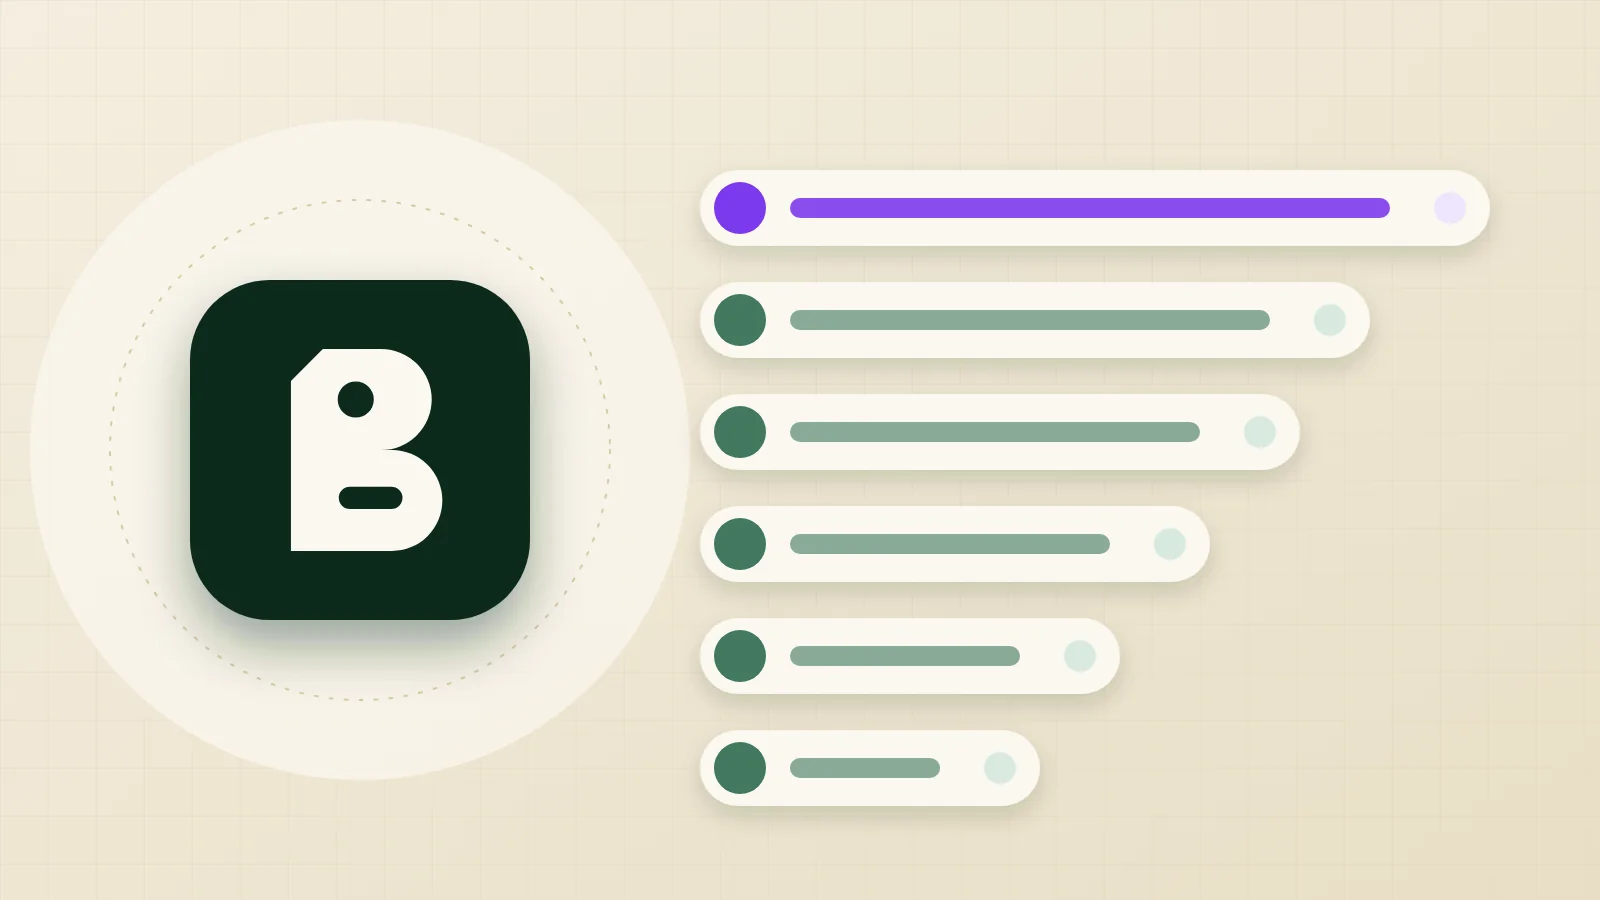
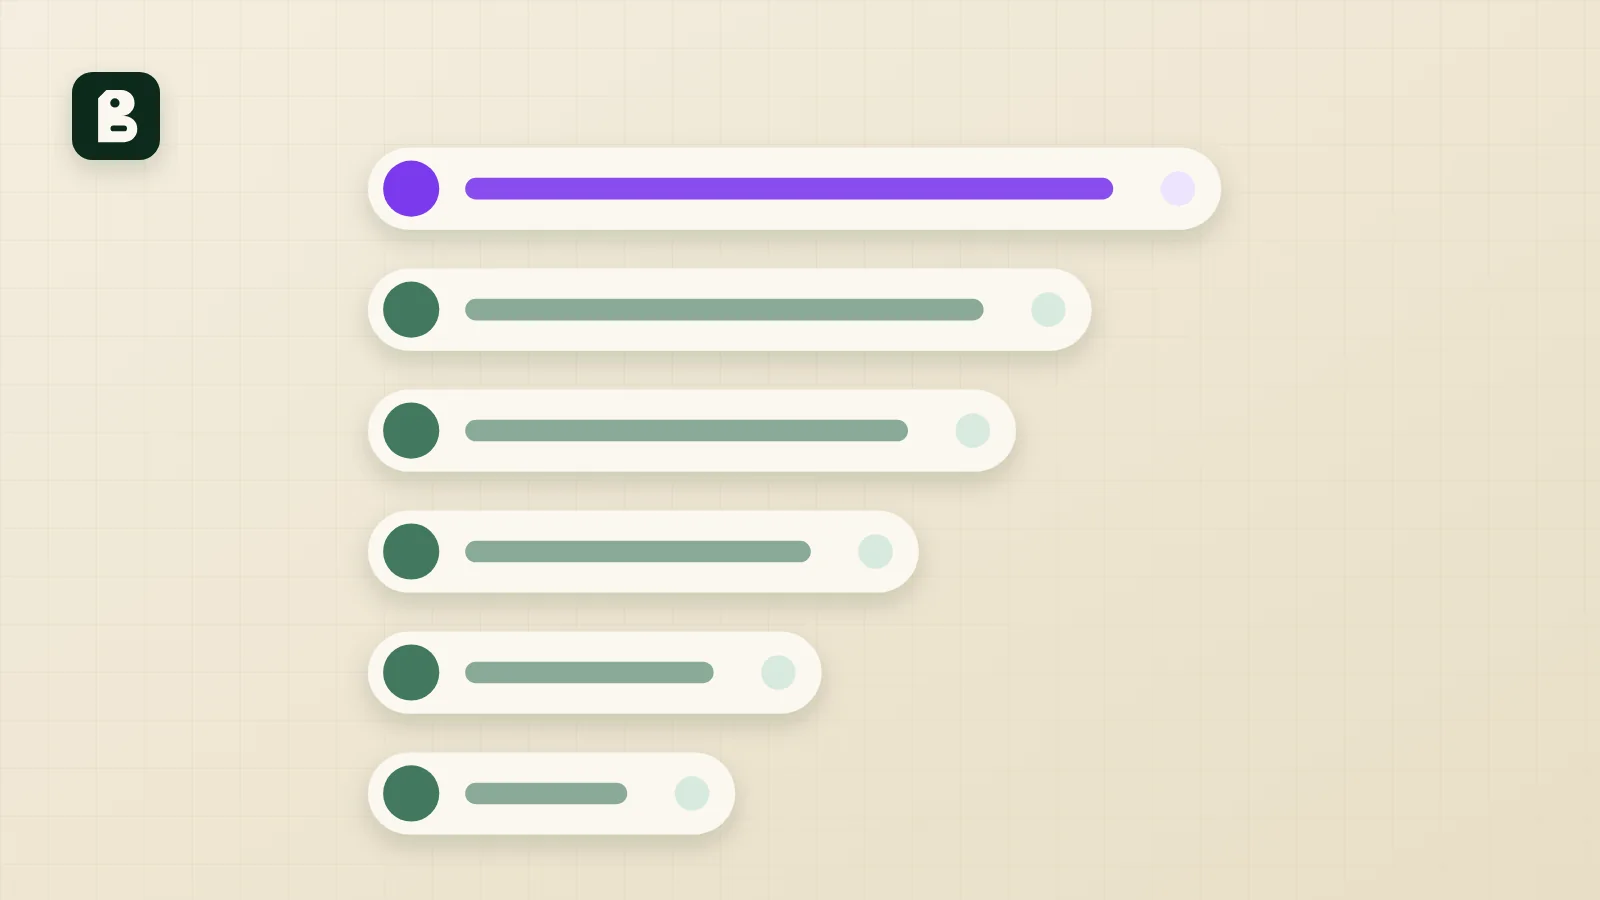
Benchmark featured images: small top-left symbol with margin, centred motif
Claude-Session: https://claude.ai/code/session_01MWx6XdsMUXGJsZSr37CFyH

diff --git a/scripts/benchmarks/build.py b/scripts/benchmarks/build.py
@@ -1,5 +1,5 @@
 """Builds one 1600x900 WebP featured image per published benchmark, each with the official BeigeLeads symbol
-(path copied from public/brand/svg/beigeleads-symbol-light.svg) beside a text-free illustration of the topic.
+(path copied from public/brand/svg/beigeleads-symbol-light.svg) in the top-left corner, with a text-free illustration of the topic.
 No numbers, no data: the shapes are decorative. Palette tokens only.
 Run: python3 scripts/benchmarks/build.py   (needs playwright + chromium and Pillow)   Output: public/benchmark-images/*.webp"""
 import io, math, pathlib, random
@@ -16,7 +16,7 @@ SYMBOL_PATH = "M25 13H36A9.5 9.5 0 0 1 36 32H38A9.5 9.5 0 0 1 38 51H19V19ZM27.8 
 
 def symbol(x, y, size):
     s = size / 64
-    return (f'<g filter="url(#big)"><g transform="translate({x} {y}) scale({s})"><rect width="64" height="64" rx="15" fill="{F9}"/>'
+    return (f'<g filter="url(#sh)"><g transform="translate({x} {y}) scale({s})"><rect width="64" height="64" rx="15" fill="{F9}"/>'
             f'<path fill-rule="evenodd" d="{SYMBOL_PATH}" fill="{S50}"/></g></g>')
 
 def frame(body):
@@ -26,8 +26,8 @@ def frame(body):
 <filter id="sh" x="-20%" y="-20%" width="140%" height="160%"><feDropShadow dx="0" dy="10" stdDeviation="12" flood-color="{F9}" flood-opacity=".16"/></filter>
 <filter id="big" filterUnits="userSpaceOnUse" x="0" y="0" width="1600" height="900"><feDropShadow dx="0" dy="26" stdDeviation="26" flood-color="{F9}" flood-opacity=".38"/></filter></defs>
 <rect width="{W}" height="{H}" fill="url(#bg)"/><rect width="{W}" height="{H}" fill="url(#grid)"/>
-<circle cx="360" cy="450" r="330" fill="{S50}" fill-opacity=".7"/><circle cx="360" cy="450" r="250" fill="none" stroke="{S300}" stroke-width="2" stroke-dasharray="3 12" stroke-linecap="round"/>
-{symbol(190, 280, 340)}{body}</svg>'''
+<g transform="translate(800 450) scale(1.08) translate(-1100 -450)">{body}</g>
+{symbol(72, 72, 88)}</svg>'''
 
 def envelope(x, y, w=150, fill=S50, flap=F5, shadow=True):
     h = w * .68

diff --git a/CLAUDE.md b/CLAUDE.md
@@ -1367,3 +1367,5 @@ Done when: site runs locally with `wrangler`-compatible dev, deploys a preview t
 
 - Long-form benchmarks (22 Nov 2026, amends section 138): each published benchmark is now a 2,500+ word article. Text lives in `lib/benchmarks-long/` (`cold`, `deliverability`, `decay`, `cycle` = main sections + FAQ per slug; `extra`, `extra2`, `extra3` = worked examples, glossaries, checklists, "how to weigh the evidence"; merged by `index.ts`, extras go before the last section). `components/benchmarks/md.tsx` renders a markdown-lite subset (paragraphs, `###`, lists, pipe tables, `**bold**`, links to a site path or https) as React elements. The page builds its TOC from the sections, adds a visible FAQ with FAQPage JSON-LD, and `benchWords` (pipes/separators excluded) drives reading time.
 - Source facts re-read on 22 Nov 2026 (Instantly, Validity PDF, ZeroBounce, Optifai). Every number is the source's, or plain arithmetic on it; worked examples are labelled "illustration only"; guidance that is not from the source says so. Added outside facts (FTC CAN-SPAM 10 business days, Google sender limits) are the ones checked on 18 Nov 2026. Validity's sector table lists 21 rows in the text we could read (the earlier summary said 23 sectors): the article says "21 we could read". Test `tests/benchmarks.test.ts` enforces >= 2,500 words, >= 5 FAQs, unique section ids and safe links. Re-check sources when new editions appear.
+
+- Benchmark images redesign (22 Nov 2026): the official symbol is now SMALL (88 px) in the TOP-LEFT corner with 72 px margin; the decorative motif is centred on the canvas (no big circle/ring). Alt texts still start with "BeigeLeads symbol beside" (test-enforced). Regenerate with `python3 scripts/benchmarks/build.py`.
